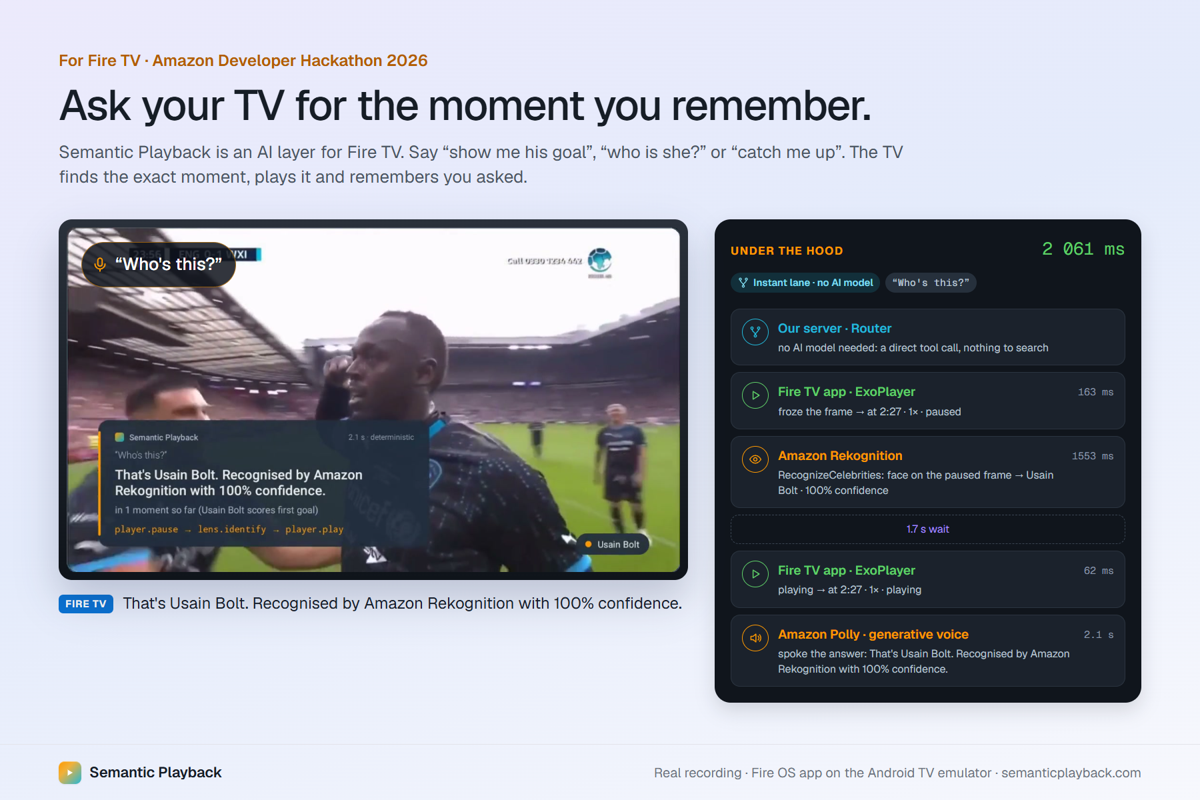
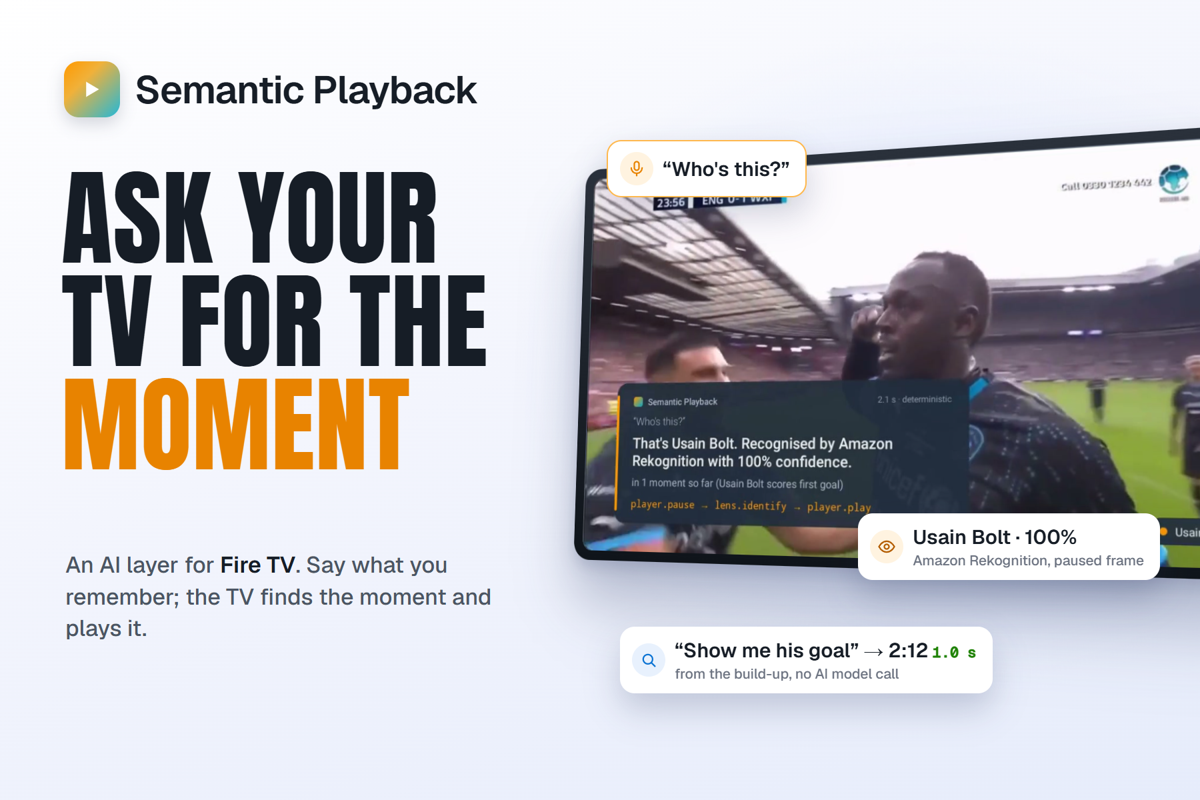
Thumbnail: titled listing image in the Arialine marketplace style; share image updated

diff --git a/apps/site/public/thumb.html b/apps/site/public/thumb.html
@@ -1,0 +1,50 @@
+<!doctype html>
+<html lang="en">
+<head>
+<meta charset="utf-8">
+<meta name="robots" content="noindex">
+<title>Semantic Playback · thumbnail</title>
+<link href="https://fonts.googleapis.com/css2?family=Anton&family=Geist:wght@400;500;600;700&family=Geist+Mono:wght@500&display=swap" rel="stylesheet">
+<style>
+  /* 1800×1200 (3:2) listing image: big two-colour title left, tilted real product frame right. */
+  * { box-sizing: border-box; }
+  body { margin: 0; background: #ccc; font-family: "Geist", sans-serif; }
+  .t { position: relative; width: 1800px; height: 1200px; overflow: hidden;
+       background: radial-gradient(900px 700px at 78% 45%, #dfe8ff 0%, transparent 70%), linear-gradient(160deg, #ffffff 0%, #f3f5fd 45%, #e6ecfb 100%); }
+  .brand { position: absolute; left: 96px; top: 92px; display: flex; align-items: center; gap: 22px; font-size: 58px; font-weight: 600; letter-spacing: -0.02em; color: #161d26; }
+  .logo { width: 84px; height: 84px; border-radius: 22px; background: linear-gradient(135deg, #ff9900 0%, #f0b13a 35%, #22b8d9 100%); display: grid; place-items: center; box-shadow: 0 10px 24px hsla(220 40% 20% / .18); }
+  .logo svg { width: 56px; height: 56px; }
+  h1 { position: absolute; left: 92px; top: 250px; margin: 0; font-family: "Anton", sans-serif; font-weight: 400; font-size: 158px; line-height: .98; letter-spacing: .005em; text-transform: uppercase; color: #161d26; }
+  h1 span { color: #e88300; display: block; }
+  .sub { position: absolute; left: 98px; top: 790px; max-width: 640px; line-height: 1.4; font-size: 34px; color: #4b5563; font-weight: 500; }
+  .sub b { color: #161d26; font-weight: 600; }
+  .stage { position: absolute; right: -90px; top: 250px; width: 1020px; perspective: 1800px; }
+  .tv { transform: rotateY(-16deg) rotateX(5deg) rotateZ(-1deg); transform-origin: left center; border-radius: 26px; padding: 14px; background: linear-gradient(180deg, #2a313b, #0f141a); box-shadow: 0 60px 90px hsla(225 45% 25% / .30), 0 10px 24px hsla(225 45% 25% / .18); }
+  .tv img { display: block; width: 100%; border-radius: 14px; }
+  .chip { position: absolute; display: flex; align-items: center; gap: 14px; padding: 16px 24px 16px 18px; border-radius: 22px; background: #fff; box-shadow: 0 24px 50px hsla(225 45% 25% / .22); font-size: 30px; font-weight: 600; color: #161d26; white-space: nowrap; }
+  .chip i { width: 50px; height: 50px; border-radius: 50%; display: grid; place-items: center; flex: none; }
+  .chip i svg { width: 28px; height: 28px; fill: none; stroke: currentColor; stroke-width: 1.9; stroke-linecap: round; stroke-linejoin: round; }
+  .chip small { display: block; font-size: 21px; font-weight: 500; color: #6b7280; margin-top: 2px; }
+  .chip .ms { font-family: "Geist Mono", monospace; font-size: 22px; color: #1d8102; margin-left: 6px; }
+  .c1 { left: 40px; top: -40px; border: 2px solid #ffb84d; }
+  .c1 i { background: #fff3e0; color: #e88300; }
+  .c2 { right: 150px; top: 520px; }
+  .c2 i { background: #fff3e0; color: #b35c00; }
+  .c3 { left: 60px; top: 690px; }
+  .c3 i { background: #e8f1fd; color: #0972d3; }
+</style>
+</head>
+<body>
+<div class="t" id="thumb">
+  <div class="brand"><span class="logo"><svg viewBox="0 0 32 32"><path d="M11 9.5v13l11-6.5-11-6.5Z" fill="#fff"/></svg></span>Semantic Playback</div>
+  <h1>Ask your<br>TV for the<span>moment</span></h1>
+  <p class="sub">An AI layer for <b>Fire TV</b>. Say what you remember; the TV finds the moment and plays it.</p>
+  <div class="stage">
+    <div class="tv"><img src="/media/gallery/f-lens.jpg" alt=""></div>
+    <div class="chip c1"><i><svg viewBox="0 0 24 24"><rect x="9" y="3" width="6" height="11" rx="3"/><path d="M5 11a7 7 0 0 0 14 0M12 18v3"/></svg></i>“Who's this?”</div>
+    <div class="chip c2"><i><svg viewBox="0 0 24 24"><path d="M2 12s3.6-7 10-7 10 7 10 7-3.6 7-10 7S2 12 2 12Z"/><circle cx="12" cy="12" r="3"/></svg></i><div>Usain Bolt · 100%<small>Amazon Rekognition, paused frame</small></div></div>
+    <div class="chip c3"><i><svg viewBox="0 0 24 24"><circle cx="11" cy="11" r="6"/><path d="m20 20-4.5-4.5"/></svg></i><div>“Show me his goal” → 2:12<span class="ms">1.0 s</span><small>from the build-up, no AI model call</small></div></div>
+  </div>
+</div>
+</body>
+</html>
